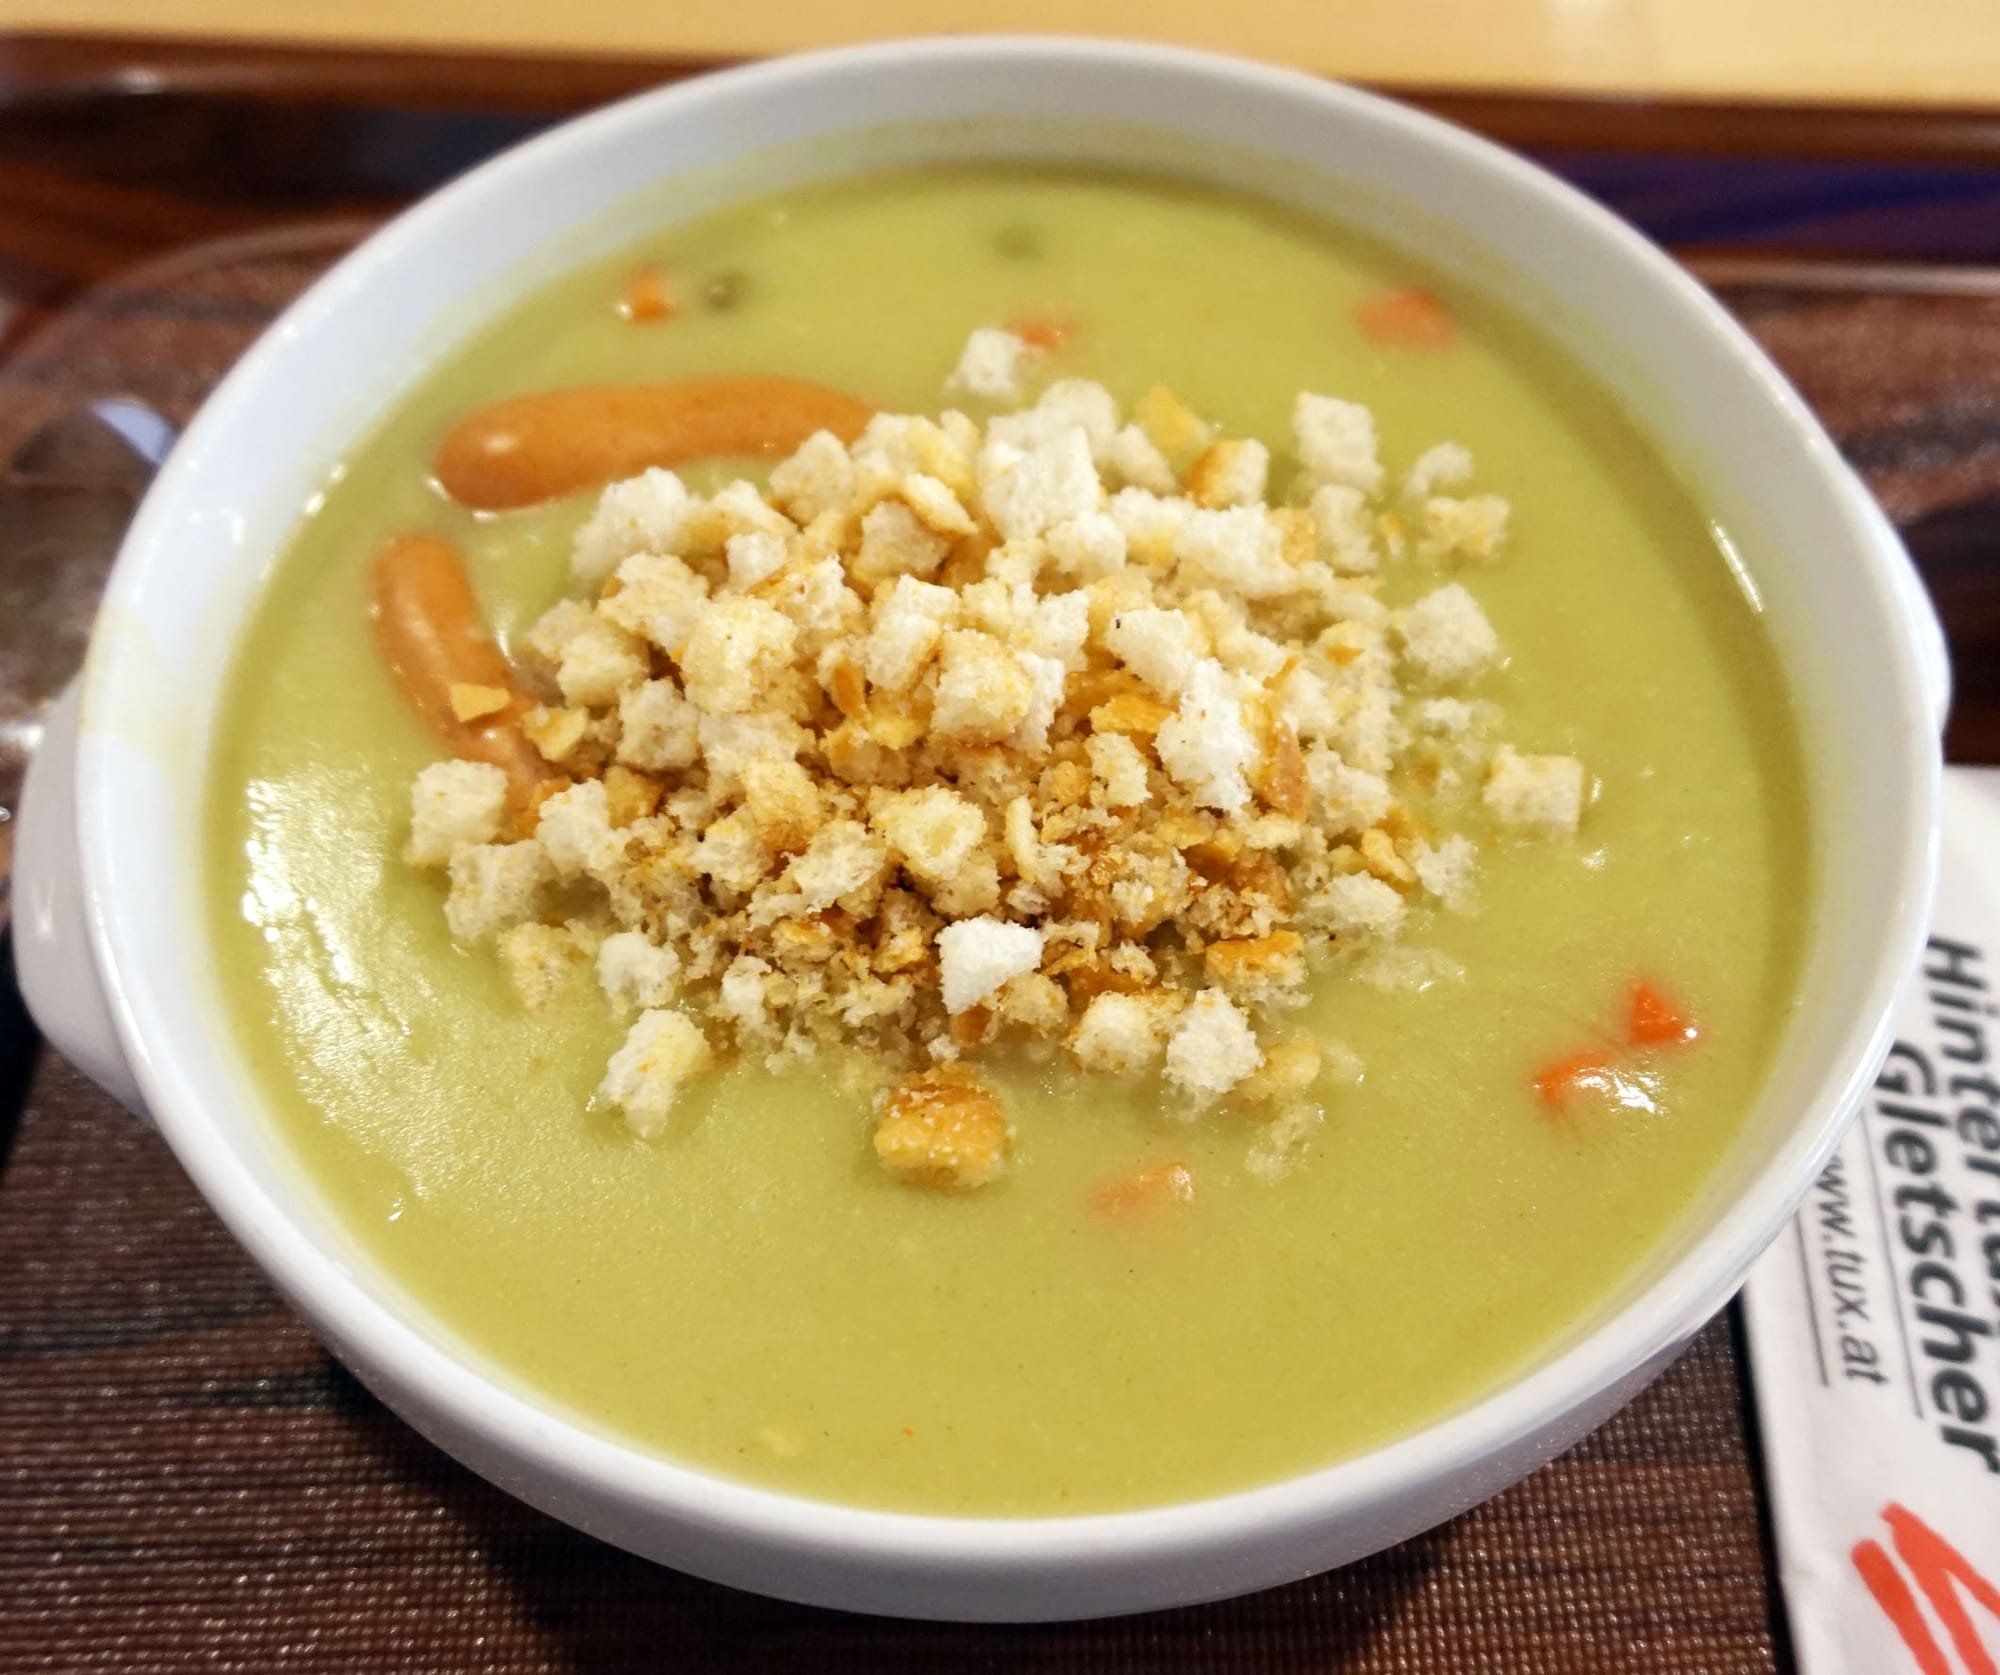
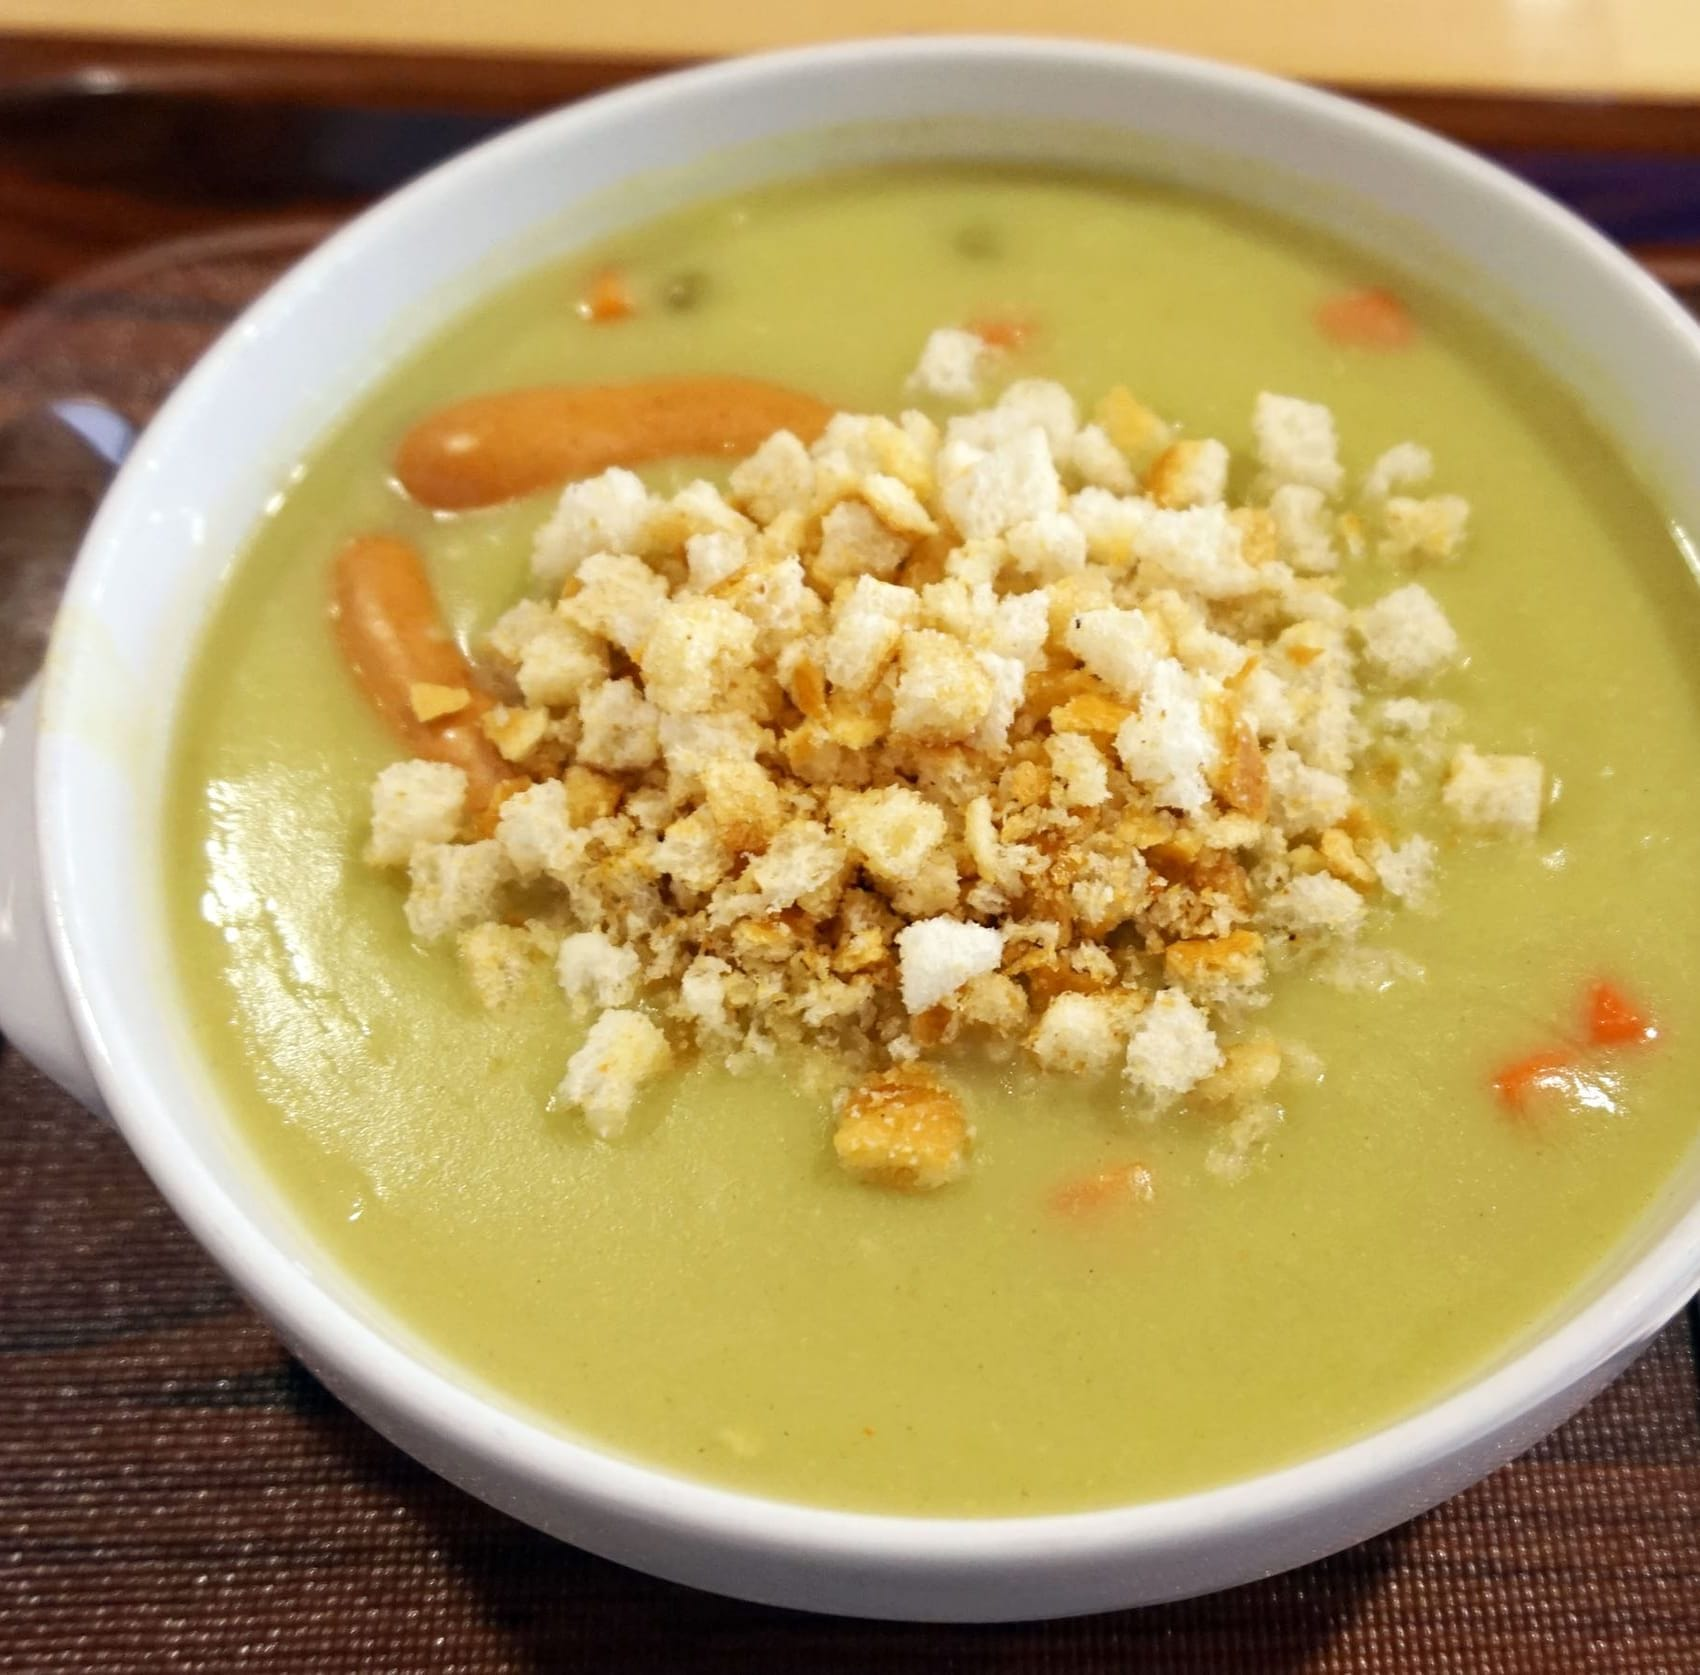
Potage Saint-Germain: crop a branded napkin out of the hero photo
Claude-Session: https://claude.ai/code/session_01Q1w91RaX5GXUG6d9qUjGqt

diff --git a/content/recipes/potage-saint-germain/index.ts b/content/recipes/potage-saint-germain/index.ts
@@ -247,6 +247,6 @@ export default defineRecipe({
     ink: "#4E5A12",
     tint: "#F3F5E2",
     deep: "#13160A",
-    focus: "42% 50%",
+    focus: "48% 50%",
   },
 });
